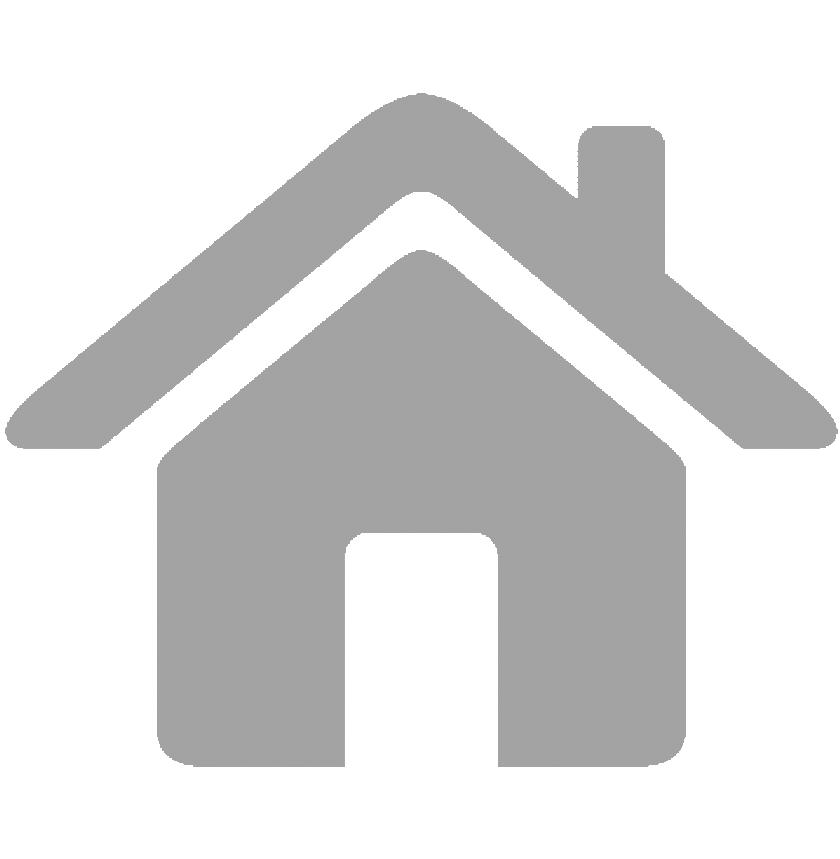
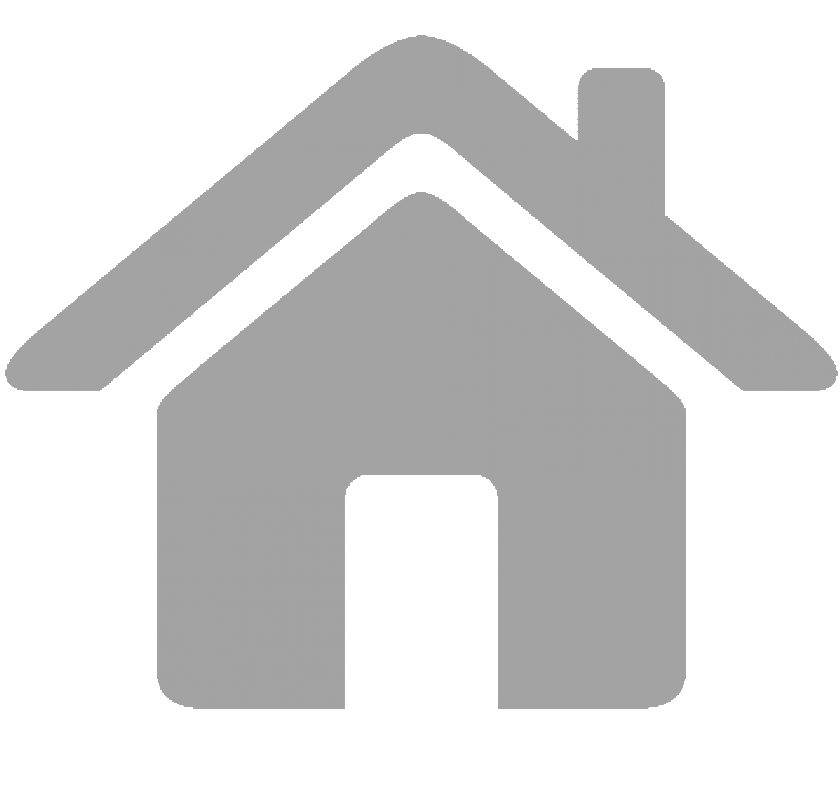
1.4.1

diff --git a/CSS/homePage.css b/CSS/homePage.css
@@ -14,16 +14,8 @@ body {
 header{
 	position: relative;
 }
-#home-img{
-	width: 40px;
-	height: 40px;
-	vertical-align: middle;
-}
-#home{
-	padding: 0px;
-}
 .navigation-bar {
-	z-index: 1;
+	z-index: 6;
 	position: relative;
 	margin: 0;
 	display: block;
@@ -134,7 +126,7 @@ header{
 	display: block;
 }
 svg {
-	z-index: 0;
+	z-index: 5;
   	position: absolute;
   	width: 100%;
 }
@@ -271,6 +263,13 @@ svg .line1{
 }
 #linkedin-img:hover {
 	filter: grayscale(0%);
+}
+#home-img{
+	width: 40px;
+	height: 40px;
+	vertical-align: middle;
+	border: 10px solid silver;
+	padding: 4px;
 }
 
 /* Education */

diff --git a/JS/index.js b/JS/index.js
@@ -103,10 +103,3 @@ function switchToContactMe(){
 	projects[0].style.display = 'none';
 	contact[0].style.display = 'block';
 }
-	var position1 = $('li:nth-child(2)').position();
-	var left1 = position1.left;
-	var position2 = $('li:nth-child(3)').position();
-	var left2 = position2.left;
-	var sum1 = left1 + left2;
-	var middle1 = sum/2;
-
